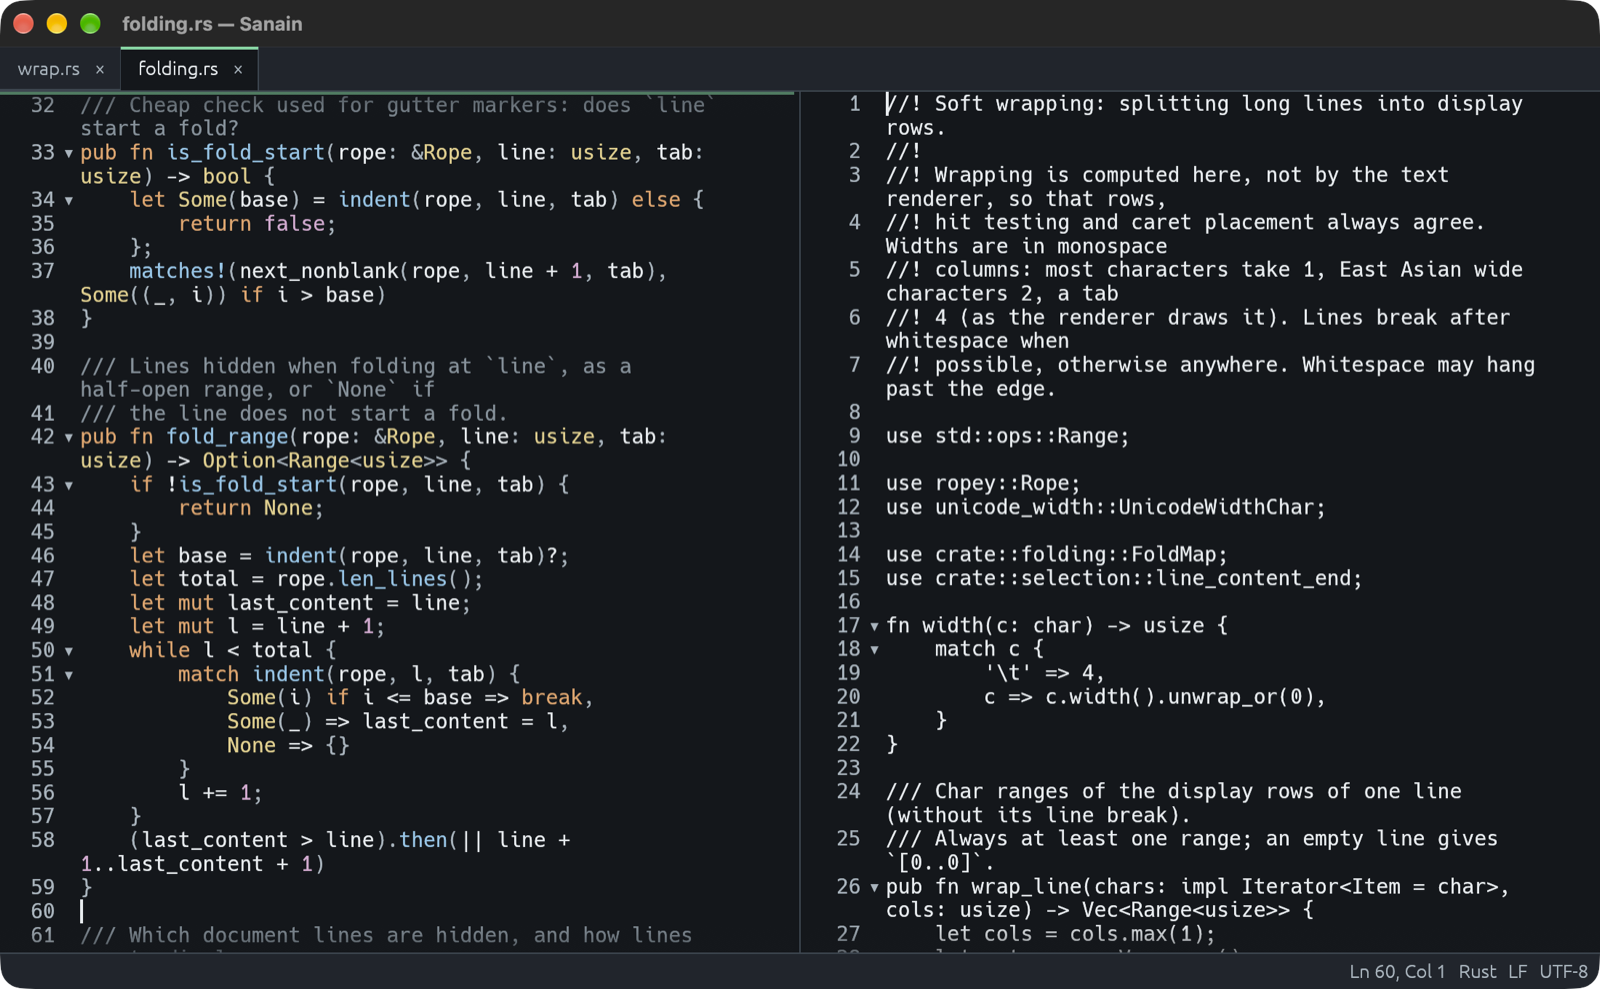
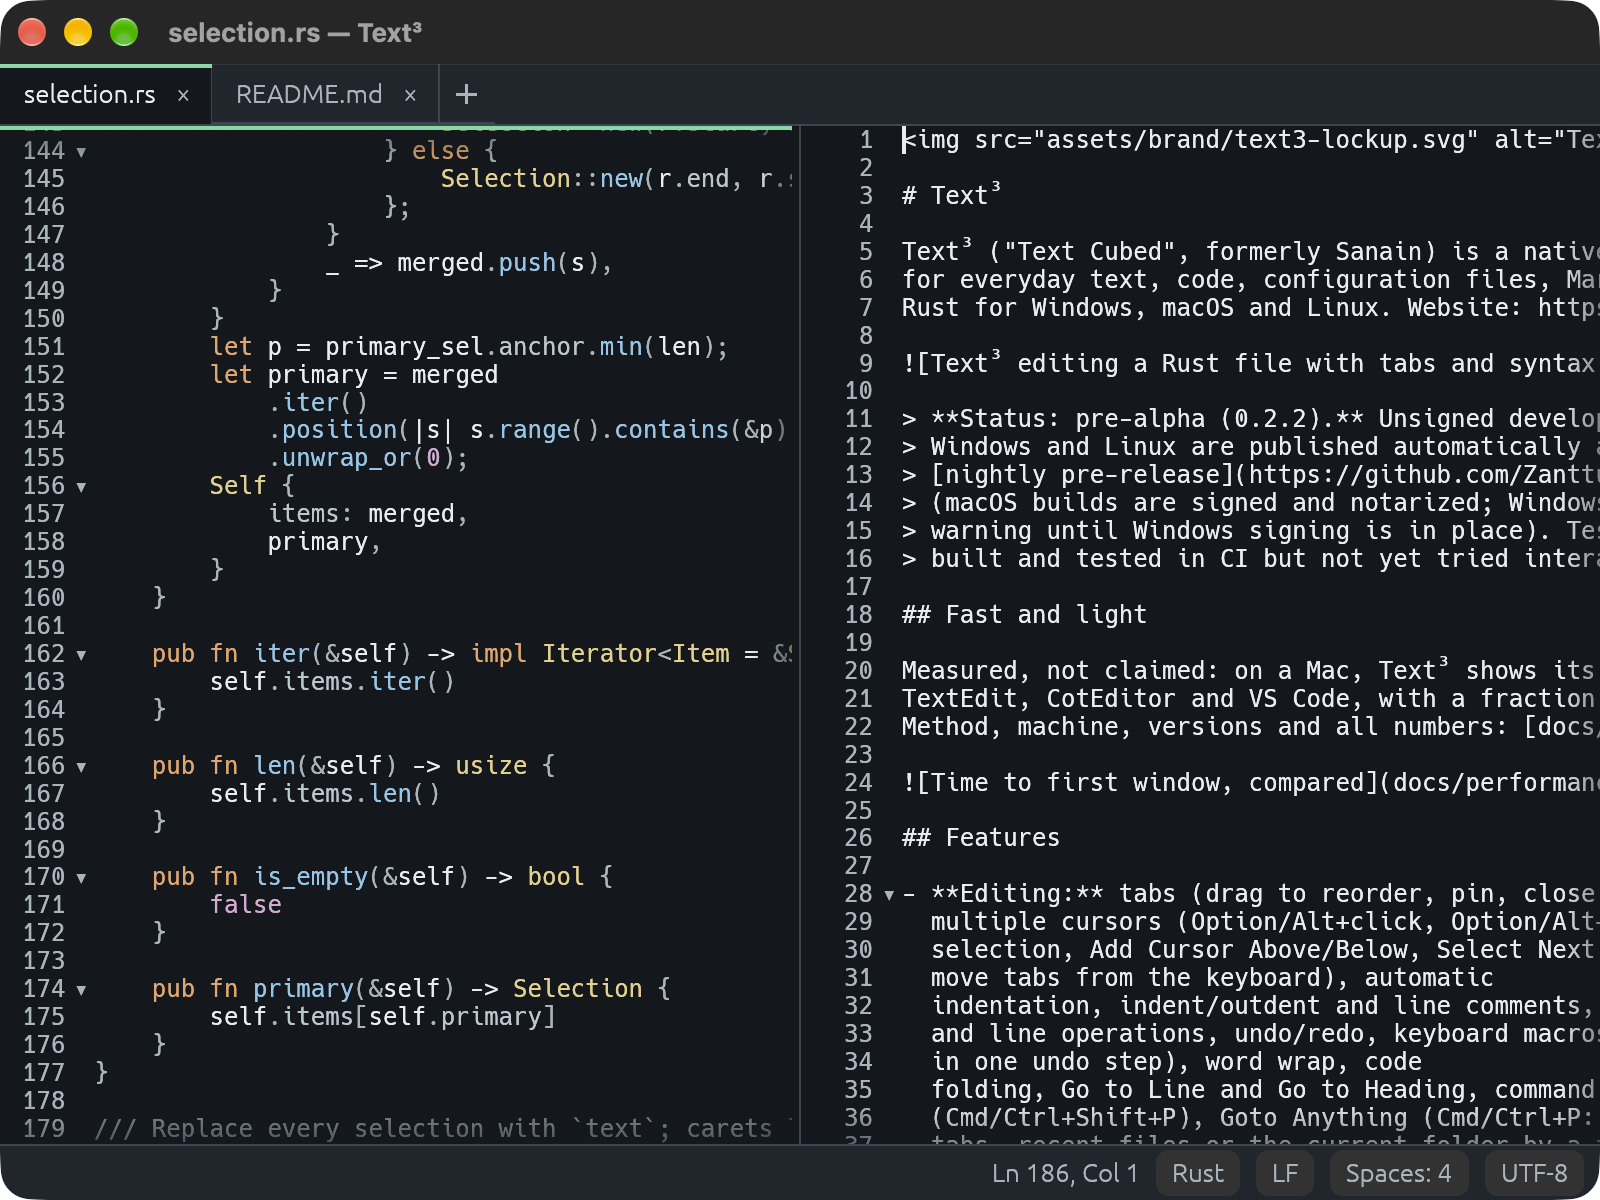
Retake screenshots with the Text³ name; add a screenshot script (#205)

Changed region(s): [[0.0, 0.0, 1.0, 1.0], [0.2812, 0.4853, 0.3438, 0.5157], [0.3125, 0.637, 0.3438, 0.6673]]

diff --git a/scripts/screenshots/winid.swift b/scripts/screenshots/winid.swift
@@ -1,0 +1,18 @@
+// Print the window number of the largest normal window owned by a pid,
+// for `screencapture -l` (scripts/screenshots/shoot.sh).
+import CoreGraphics
+import Foundation
+
+guard CommandLine.arguments.count == 2, let pid = Int(CommandLine.arguments[1]) else { exit(2) }
+let list = CGWindowListCopyWindowInfo([.optionOnScreenOnly], kCGNullWindowID) as? [[String: Any]] ?? []
+let best = list
+    .filter { ($0[kCGWindowOwnerPID as String] as? Int) == pid && ($0[kCGWindowLayer as String] as? Int) == 0 }
+    .max { a, b in
+        let area = { (w: [String: Any]) -> Double in
+            let r = w[kCGWindowBounds as String] as? [String: Double] ?? [:]
+            return (r["Width"] ?? 0) * (r["Height"] ?? 0)
+        }
+        return area(a) < area(b)
+    }
+guard let n = best?[kCGWindowNumber as String] as? Int else { exit(1) }
+print(n)

diff --git a/scripts/screenshots/shoot.py b/scripts/screenshots/shoot.py
@@ -1,0 +1,250 @@
+#!/usr/bin/env python3
+"""Retake the README and website screenshots from a real build (#205).
+
+macOS only. Needs the Screen Recording and Accessibility permissions for
+the terminal (window capture, key presses through System Events).
+
+    sh scripts/macos-bundle.sh release
+    python3 scripts/screenshots/shoot.py [scene ...]
+
+Every scene starts Text³ with an empty config and recovery folder, so the
+user's own settings and files are never shown or touched. The sample
+files are repository files plus generated data (no personal content).
+Output: docs/screenshots/<scene>.png (window only, no shadow), and the
+website copy in website/screenshots/ when that folder exists.
+"""
+
+import os
+import random
+import shutil
+import subprocess
+import sys
+import tempfile
+import time
+from pathlib import Path
+
+ROOT = Path(__file__).resolve().parents[2]
+APP = ROOT / "target/release/Text³.app"
+BIN = APP / "Contents/MacOS/text3"
+OUT = ROOT / "docs/screenshots"
+SIZE = (800, 600)  # points; 1600×1200 pixels on a Retina screen
+PROC = "text3"
+
+
+def osa(script: str) -> str:
+    return subprocess.run(
+        ["osascript", "-e", script], check=True, capture_output=True, text=True
+    ).stdout.strip()
+
+
+def front() -> None:
+    osa(f'tell application "System Events" to set frontmost of process "{PROC}" to true')
+    time.sleep(0.3)
+
+
+def keys(text: str, using: str = "") -> None:
+    """Type into Text³, which must be frontmost (checked first, so key
+    presses never land in another app)."""
+    front()
+    if osa('tell application "System Events" to name of first process whose frontmost is true') != PROC:
+        raise SystemExit("Text³ is not frontmost; not typing")
+    mod = f" using {{{using}}}" if using else ""
+    osa(f'tell application "System Events" to keystroke "{text}"{mod}')
+    time.sleep(0.4)
+
+
+def key_code(code: int) -> None:
+    front()
+    osa(f'tell application "System Events" to key code {code}')
+    time.sleep(0.4)
+
+
+def menu(top: str, item: str) -> None:
+    front()
+    osa(
+        f'tell application "System Events" to tell process "{PROC}" to '
+        f'click menu item "{item}" of menu "{top}" of menu bar 1'
+    )
+    time.sleep(0.6)
+
+
+NOTES = """# Release checklist
+
+Steps for a **Text³** release. Each step is small and can be checked off.
+
+## Before tagging
+
+1. Update `CHANGELOG.md` and move *Unreleased* under the new version.
+2. Run the checks:
+
+   ```sh
+   cargo fmt --check
+   cargo clippy --workspace --all-targets -- -D warnings
+   cargo test --workspace --locked
+   ```
+
+3. Read the [performance budgets](docs/PERFORMANCE.md) report.
+
+> Never tag a build that has not passed CI on all three platforms.
+
+## Platforms
+
+| Platform | Package          | Signed |
+|----------|------------------|--------|
+| macOS    | DMG, App Store   | yes    |
+| Windows  | installer, zip   | soon   |
+| Linux    | AppImage, deb    | n/a    |
+
+## After publishing
+
+- [x] Release notes written
+- [ ] Website updated
+- [ ] Announcement posted
+"""
+
+
+def samples(d: Path) -> dict:
+    """Sample files: the README, the selection module, a CSV and a log."""
+    files = {
+        "readme": d / "README.md",
+        "rust": d / "selection.rs",
+        "csv": d / "inventory.csv",
+        "log": d / "server.log",
+    }
+    shutil.copy(ROOT / "README.md", files["readme"])
+    files["notes"] = d / "release-notes.md"
+    files["notes"].write_text(NOTES)
+    shutil.copy(ROOT / "crates/text3-core/src/selection.rs", files["rust"])
+    rnd = random.Random(7)
+    items = ["Notebook", "Pencil", "Stapler", "Desk lamp", "Monitor arm", "USB cable",
+             "Keyboard", "Mouse pad", "Webcam", "Headset", "Marker", "Folder"]
+    rows = ["sku,item,warehouse,quantity,unit_price,updated"]
+    for i in range(60):
+        rows.append(
+            f"SKU-{1000 + i},{rnd.choice(items)},{rnd.choice(['Helsinki', 'Tampere', 'Oulu', 'Turku'])},"
+            f"{rnd.randint(0, 900)},{rnd.randint(1, 300)}.{rnd.randint(0, 99):02d},2026-11-{rnd.randint(1, 27):02d}"
+        )
+    files["csv"].write_text("\n".join(rows) + "\n")
+    lines = []
+    for i in range(5000):
+        lvl = rnd.choices(["INFO", "DEBUG", "WARN", "ERROR"], [60, 15, 18, 7])[0]
+        svc = rnd.choice(["api", "auth", "db", "worker"])
+        msg = {
+            "INFO": f"request handled in {rnd.randint(40, 900)} ms",
+            "DEBUG": f"cache lookup key=user:{rnd.randint(1, 999)}",
+            "WARN": f"slow query took {rnd.randint(100, 600)} ms",
+            "ERROR": f"upstream timeout after {rnd.randint(50, 900)} ms",
+        }[lvl]
+        h, m, s = divmod(i, 3600)[0], divmod(i, 60)[0] % 60, i % 60
+        lines.append(f"2026-11-28T{9 + h:02d}:{m:02d}:{s:02d}Z {lvl:<5} {svc:<6} {msg}")
+    files["log"].write_text("\n".join(lines) + "\n")
+    return files
+
+
+def caret_at(path: Path, line: int, col: int) -> int:
+    text = path.read_text()
+    starts = [0]
+    for ln in text.split("\n"):
+        starts.append(starts[-1] + len(ln) + 1)
+    return starts[line - 1] + col - 1
+
+
+def session(tabs, active: int, extra: str = "") -> str:
+    out = f"text3-session 1\nactive={active}\n"
+    for path, caret in tabs:
+        out += f"path={path}\n"
+        if caret is not None:
+            out += f"caret={caret},{caret}\n"
+    return out + extra
+
+
+def run(name: str, files: dict, theme: str, sess: str, args=(), act=None) -> None:
+    with tempfile.TemporaryDirectory(prefix="text3-shot-") as tmp:
+        tmp = Path(tmp)
+        cfg, rec = tmp / "config", tmp / "state/recovery"
+        cfg.mkdir()
+        rec.mkdir(parents=True)
+        (cfg / "settings").write_text(
+            "text3-settings 1\nfont_size=12\ntab_width=4\ninsert_spaces=true\n"
+            f"theme={theme}\nrestore_session=true\ncheck_updates=false\n"
+            "last_update_check=0\nlocal_history=false\nword_wrap=false\nhot_exit=false\n"
+            "show_counts=false\ndefault_apps_asked=true\n"
+        )
+        if sess:
+            (tmp / "state/session").write_text(sess)
+        env = dict(os.environ, TEXT3_CONFIG_DIR=str(cfg), TEXT3_RECOVERY_DIR=str(rec))
+        p = subprocess.Popen([str(BIN), *map(str, args)], env=env,
+                             stdout=subprocess.DEVNULL, stderr=subprocess.DEVNULL)
+        try:
+            time.sleep(2.5)
+            front()
+            osa(
+                f'tell application "System Events" to tell process "{PROC}" to tell window 1\n'
+                f"set position to {{120, 80}}\nset size to {{{SIZE[0]}, {SIZE[1]}}}\nend tell"
+            )
+            time.sleep(0.8)
+            if act:
+                act()
+            time.sleep(1.0)
+            wid = subprocess.run([str(WINID), str(p.pid)], check=True, capture_output=True,
+                                 text=True).stdout.strip()
+            out = OUT / f"{name}.png"
+            subprocess.run(["screencapture", "-x", "-o", "-l", wid, str(out)], check=True)
+            print(f"{name}: {out.relative_to(ROOT)}")
+        finally:
+            p.terminate()
+            p.wait(timeout=10)
+
+
+def main() -> None:
+    if not BIN.exists():
+        raise SystemExit("build first: sh scripts/macos-bundle.sh release")
+    work = Path(tempfile.mkdtemp(prefix="text3-samples-"))
+    f = samples(work)
+    rs222 = caret_at(f["rust"], 222, 24)
+    three = [(f["readme"], None), (f["csv"], None), (f["rust"], rs222)]
+
+    def find():
+        keys("f", "command down")
+        keys("selection")
+
+    def log():
+        menu("File", "Open in Log Viewer…")
+        time.sleep(1.0)
+        keys("g", "command down, shift down")
+        keys(str(f["log"]))
+        key_code(36)  # Return: go to the file
+        time.sleep(0.8)
+        key_code(36)  # Return: open
+        time.sleep(1.5)
+
+    scenes = {
+        "editor": dict(theme="dark", sess=session(three, 2)),
+        "find": dict(theme="dark", sess=session([(f["readme"], None), (f["csv"], None), (f["rust"], 0)], 2), act=find),
+        "markdown": dict(theme="dark", sess=session([(f["notes"], 0)], 0),
+                         act=lambda: menu("View", "Markdown Source and Preview")),
+        "csv": dict(theme="dark", sess=session([(f["csv"], 0)], 0),
+                    act=lambda: menu("View", "Structured View (CSV, JSON, XML, YAML)")),
+        "light": dict(theme="light", sess=session([(f["rust"], caret_at(f["rust"], 186, 1))], 0)),
+        "split": dict(theme="dark", sess=session(
+            [(f["rust"], caret_at(f["rust"], 186, 1)), (f["readme"], 0)], 0,
+            "split=right\ngroup=0.5\npane=0,1\ngroup=0.5\npane=1,1\nfocus=0\n"), act=front),
+        "log": dict(theme="dark", sess="", act=log),
+    }
+    want = sys.argv[1:] or list(scenes)
+    for name in want:
+        s = scenes[name]
+        run(name, f, s["theme"], s["sess"], act=s.get("act"))
+    site = ROOT / "website/screenshots"
+    if site.is_dir():
+        for name in want:
+            shutil.copy(OUT / f"{name}.png", site / f"{name}.png")
+    shutil.rmtree(work)
+
+
+WINID = Path(os.environ.get("TEXT3_WINID", Path(tempfile.gettempdir()) / "text3-winid"))
+if __name__ == "__main__":
+    if not WINID.exists():
+        subprocess.run(["swiftc", "-O", str(Path(__file__).with_name("winid.swift")), "-o", str(WINID)],
+                       check=True)
+    main()

diff --git a/docs/REBRAND.md b/docs/REBRAND.md
@@ -224,8 +224,8 @@ which the terminal does not have, and reading the window through the
 Accessibility API needs a permission it does not have either. The window
 title and About therefore still need a look by a person (expected: title
 "notes.txt — Text³", About with the lockup on a white plate); the
-existing `docs/screenshots/*.png` still show the old name in the title bar
-and should be retaken.
+README and website screenshots were retaken with
+`scripts/screenshots/shoot.py` on 2026-11-28 (#205).
 
 Not tested here: Windows (installer, registry, icon embedding, wizard
 artwork) and Linux (deb, desktop entry, hicolor icons, `sanain` symlink)

diff --git a/CHANGELOG.md b/CHANGELOG.md
@@ -4,6 +4,11 @@ All notable changes are listed here. Versions follow Semantic Versioning.
 
 ## [Unreleased]
 
+### Changed
+- README and website screenshots retaken from a Text³ build; they no
+  longer show the old name. `scripts/screenshots/shoot.py` retakes them
+  with an empty config and sample files (#205).
+
 ### Added
 - App Store build: files you opened come back after a restart inside the
   sandbox. Open Recent, session restore and hot exit keep access through
